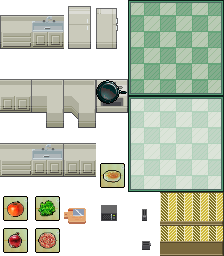
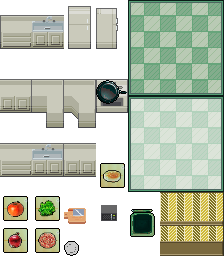
Updated tilemap, various optimisations

Changed region(s): [[0.5625, 0.8125, 0.7188, 1.0], [0.2812, 0.9375, 0.375, 1.0]]

diff --git a/core/src/io/github/eng_25/piazzapanic/screen/ScreenGame.java b/core/src/io/github/eng_25/piazzapanic/screen/ScreenGame.java
@@ -5,22 +5,26 @@ import com.badlogic.gdx.Input;
 import com.badlogic.gdx.InputMultiplexer;
 import com.badlogic.gdx.graphics.GL20;
 import com.badlogic.gdx.graphics.OrthographicCamera;
+import com.badlogic.gdx.graphics.g2d.TextureRegion;
 import com.badlogic.gdx.math.Vector2;
 import com.badlogic.gdx.scenes.scene2d.InputEvent;
 import com.badlogic.gdx.scenes.scene2d.Stage;
-import com.badlogic.gdx.scenes.scene2d.ui.Table;
-import com.badlogic.gdx.scenes.scene2d.ui.TextButton;
-import com.badlogic.gdx.scenes.scene2d.ui.Window;
+import com.badlogic.gdx.scenes.scene2d.ui.*;
 import com.badlogic.gdx.scenes.scene2d.utils.ClickListener;
+import com.badlogic.gdx.utils.Array;
 import com.badlogic.gdx.utils.viewport.ExtendViewport;
 import com.badlogic.gdx.utils.viewport.ScreenViewport;
 import io.github.eng_25.piazzapanic.PiazzaPanic;
 import io.github.eng_25.piazzapanic.common.PiazzaMap;
 import io.github.eng_25.piazzapanic.common.entity.Cook;
+import io.github.eng_25.piazzapanic.common.ingredient.BaseIngredient;
+import io.github.eng_25.piazzapanic.common.ingredient.Ingredient;
 import io.github.eng_25.piazzapanic.util.ResourceManager;
 import io.github.eng_25.piazzapanic.util.UIHelper;
 import io.github.eng_25.piazzapanic.window.WindowGuide;
 import io.github.eng_25.piazzapanic.window.WindowPause;
+
+import java.util.ArrayList;
 
 /**
  * The screen for the main game itself
@@ -131,6 +135,41 @@ public class ScreenGame extends ScreenBase {
                 pauseWindow.setVisible(true);
             }
         });
+
+
+        //TODO: remove tests here
+        currentCook.getStack().push(Ingredient.copyOf(Ingredient.INGREDIENT_MAP.get("Lettuce")));
+        currentCook.getStack().push(Ingredient.copyOf(Ingredient.INGREDIENT_MAP.get("Lettuce")));
+
+
+        // stack UI
+        //TODO: change first 3 to emptyTex, last to stack tex
+        UITable.add(new Image(resourceManager.burger)).left().row();
+        UITable.add(new Image(resourceManager.salad)).left().row();
+        UITable.add(new Image(resourceManager.buttonDown)).left().row();
+        UITable.add(new Image(resourceManager.closeButton)).left().row();
+        updateStackTextures();
+        adjustStackUIPosition();
+    }
+
+    //TODO: check this works properly with stack order
+    private void updateStackTextures() {
+        // set up list to determine which parts of stack UI are filled and which should be empty
+        ArrayList<BaseIngredient> stackDisplayList = new ArrayList<>();
+        for (Object i : currentCook.getStack().toArray()) {
+            stackDisplayList.add((BaseIngredient) i);
+        }
+        while (stackDisplayList.size() < 3) { stackDisplayList.add(null); }
+
+        // if part of the stack was empty, use the empty texture - otherwise scale
+        //TODO: change buttonUp here to empty tex
+        Array<Cell> cells = UITable.getCells();
+        for (int i=1; i<4; i++) { // 3 stack images
+            BaseIngredient ing = stackDisplayList.get(i-1);
+            TextureRegion tex = ing == null ? resourceManager.buttonUp : ing.getTexture();
+            Image texScaled = new Image(tex);
+            cells.get(i).setActor(texScaled);
+        }
     }
 
     /**
@@ -147,6 +186,16 @@ public class ScreenGame extends ScreenBase {
     private void switchCooks() {
         currentCook.stopMoving();
         currentCook = currentCook == cook1 ? cook2 : cook1;
+    }
+
+    private void adjustStackUIPosition() {
+        float padLeft = UIViewport.getScreenWidth()*0.1f;
+        float initialPadTop = UIViewport.getScreenHeight()*0.4f;
+        float padTop = UIViewport.getScreenHeight()*0.1f;
+        UITable.getCells().get(1).padLeft(padLeft).padTop(initialPadTop);
+        for (int i=2; i<5; i++) {
+            UITable.getCells().get(i).padLeft(padLeft).padTop(padTop);
+        }
     }
 
 
@@ -202,6 +251,9 @@ public class ScreenGame extends ScreenBase {
 
         // pause button positioning
         UITable.getCells().get(0).padLeft(UIViewport.getWorldWidth() - resourceManager.buttonUp.getRegionWidth());
+
+        // stack UI positioning
+        adjustStackUIPosition();
 
         resizeWindow(pauseWindow);
         resizeWindow(guideWindow);

diff --git a/core/src/io/github/eng_25/piazzapanic/common/ingredient/Ingredient.java b/core/src/io/github/eng_25/piazzapanic/common/ingredient/Ingredient.java
@@ -1,6 +1,7 @@
 package io.github.eng_25.piazzapanic.common.ingredient;
 
 import com.badlogic.gdx.graphics.Texture;
+import com.badlogic.gdx.graphics.g2d.TextureRegion;
 import io.github.eng_25.piazzapanic.util.ResourceManager;
 
 import java.util.Map;
@@ -10,11 +11,11 @@ public class Ingredient extends BaseIngredient implements Comparable<Ingredient>
     // map of ingredients to be referred to
     public static final ResourceManager rm = new ResourceManager();
     public static final Map<String, Ingredient> INGREDIENT_MAP = Map.of(
-            "Onion", new Ingredient("onion", rm.onionUnprepared.getTexture(), rm.onionPrepared.getTexture()),
-            "Lettuce", new Ingredient("lettuce", rm.lettuceUnprepared.getTexture(), rm.lettucePrepared.getTexture()),
-            "Tomato", new Ingredient("tomato", rm.tomatoUnprepared.getTexture(), rm.tomatoPrepared.getTexture()),
-            "Meat", new Ingredient("meat", rm.meatUnprepared.getTexture(), rm.meatPrepared.getTexture()),
-            "Bun", new Ingredient("bun", rm.bun.getTexture(), rm.bun.getTexture()).prepare() // always prepared
+            "Onion", new Ingredient("onion", rm.onionUnprepared, rm.onionPrepared),
+            "Lettuce", new Ingredient("lettuce", rm.lettuceUnprepared, rm.lettucePrepared),
+            "Tomato", new Ingredient("tomato", rm.tomatoUnprepared, rm.tomatoPrepared),
+            "Meat", new Ingredient("meat", rm.meatUnprepared, rm.meatPrepared),
+            "Bun", new Ingredient("bun", rm.bun, rm.bun).prepare() // always prepared
     );
 
     public static Ingredient copyOf(Ingredient ing) {
@@ -22,12 +23,12 @@ public class Ingredient extends BaseIngredient implements Comparable<Ingredient>
     }
 
     private boolean isPrepared;
-    private final Texture[] textures; // {unprepared, prepared}
+    private final TextureRegion[] textures; // {unprepared, prepared}
 
-    public Ingredient(String name, Texture unprepared, Texture prepared) {
+    public Ingredient(String name, TextureRegion unprepared, TextureRegion prepared) {
         super(name);
         isPrepared = false;
-        textures = new Texture[]{unprepared, prepared};
+        textures = new TextureRegion[]{unprepared, prepared};
     }
 
     /**
@@ -52,7 +53,7 @@ public class Ingredient extends BaseIngredient implements Comparable<Ingredient>
      * @return prepared texture if isPrepared true, unprepared texture otherwise
      */
     @Override
-    Texture getTexture() {
+    public TextureRegion getTexture() {
         return isPrepared ? textures[1] : textures[0];
     }
 

diff --git a/core/src/io/github/eng_25/piazzapanic/common/ingredient/Recipes.java b/core/src/io/github/eng_25/piazzapanic/common/ingredient/Recipes.java
@@ -9,15 +9,15 @@ import java.util.List;
 public enum Recipes {
 
     SALAD(List.of(
-            Ingredient.INGREDIENT_MAP.get("Onion").prepare(),
-            Ingredient.INGREDIENT_MAP.get("Lettuce").prepare(),
-            Ingredient.INGREDIENT_MAP.get("Tomato").prepare()
-    ), Dish.DISH_MAP.get("Salad")),
+            Ingredient.copyOf(Ingredient.INGREDIENT_MAP.get("Onion")).prepare(),
+            Ingredient.copyOf(Ingredient.INGREDIENT_MAP.get("Lettuce")).prepare(),
+            Ingredient.copyOf(Ingredient.INGREDIENT_MAP.get("Tomato")).prepare()
+    ), Dish.copyOf(Dish.DISH_MAP.get("Salad"))),
     BURGER(List.of(
-            Ingredient.INGREDIENT_MAP.get("Bun"),
-            Ingredient.INGREDIENT_MAP.get("Meat").prepare(),
-            Ingredient.INGREDIENT_MAP.get("Lettuce").prepare()
-    ), Dish.DISH_MAP.get("Burger"));
+            Ingredient.copyOf(Ingredient.INGREDIENT_MAP.get("Bun")),
+            Ingredient.copyOf(Ingredient.INGREDIENT_MAP.get("Meat")).prepare(),
+            Ingredient.copyOf(Ingredient.INGREDIENT_MAP.get("Lettuce")).prepare()
+    ), Dish.copyOf(Dish.DISH_MAP.get("Burger")));
 
     private final List<Ingredient> ingredientList;
     private final Dish dishOut;
@@ -44,6 +44,7 @@ public enum Recipes {
     public Dish checkValidRecipe(List<Ingredient> listOfIngredients) {
         Collections.sort(listOfIngredients);
 
+        //TODO: sort r.get... here?
         for (Recipes r : Recipes.values()) {
             if (listOfIngredients.equals(r.getIngredientList())) {
                 return r.getDish();

diff --git a/core/src/io/github/eng_25/piazzapanic/common/ingredient/Dish.java b/core/src/io/github/eng_25/piazzapanic/common/ingredient/Dish.java
@@ -1,6 +1,7 @@
 package io.github.eng_25.piazzapanic.common.ingredient;
 
 import com.badlogic.gdx.graphics.Texture;
+import com.badlogic.gdx.graphics.g2d.TextureRegion;
 import io.github.eng_25.piazzapanic.util.ResourceManager;
 
 import java.util.Map;
@@ -10,8 +11,8 @@ public class Dish extends BaseIngredient {
     // map of dishes to be referred to
     private static final ResourceManager rm = new ResourceManager();
     public static final Map<String, Dish> DISH_MAP = Map.of(
-            "Salad", new Dish("salad", rm.salad.getTexture()),
-            "Burger", new Dish("burger", rm.burger.getTexture())
+            "Salad", new Dish("salad", rm.salad),
+            "Burger", new Dish("burger", rm.burger)
     );
 
     public static Dish copyOf(Dish dish) {
@@ -19,15 +20,15 @@ public class Dish extends BaseIngredient {
     }
 
     // Dish only has a single texture
-    private Texture texture;
+    private TextureRegion texture;
 
-    public Dish(String name, Texture tex) {
+    public Dish(String name, TextureRegion tex) {
         super(name);
         texture = tex;
     }
 
     @Override
-    Texture getTexture() {
+    public TextureRegion getTexture() {
         return texture;
     }
 }

diff --git a/core/src/io/github/eng_25/piazzapanic/util/SizedStack.java b/core/src/io/github/eng_25/piazzapanic/util/SizedStack.java
@@ -9,7 +9,7 @@ import java.util.Stack;
  */
 public class SizedStack<T> extends Stack<T> {
 
-    private int maxSize;
+    private final int maxSize;
 
     /**
      * @param size max size of stack
@@ -35,5 +35,11 @@ public class SizedStack<T> extends Stack<T> {
 
     public boolean isFull() {
         return this.size() == maxSize;
+    }
+
+    @Override
+    public synchronized T peek() {
+        if (isEmpty()) { return null; }
+        return super.peek();
     }
 }

diff --git a/core/src/io/github/eng_25/piazzapanic/common/ingredient/BaseIngredient.java b/core/src/io/github/eng_25/piazzapanic/common/ingredient/BaseIngredient.java
@@ -1,6 +1,6 @@
 package io.github.eng_25.piazzapanic.common.ingredient;
 
-import com.badlogic.gdx.graphics.Texture;
+import com.badlogic.gdx.graphics.g2d.TextureRegion;
 
 /**
  * Base class for Ingredients and Dishes, both have a name and must implement a getTexture() method
@@ -17,5 +17,5 @@ public abstract class BaseIngredient {
         return name;
     }
 
-    abstract Texture getTexture();
+    public abstract TextureRegion getTexture();
 }

diff --git a/core/src/io/github/eng_25/piazzapanic/common/entity/Cook.java b/core/src/io/github/eng_25/piazzapanic/common/entity/Cook.java
@@ -18,7 +18,7 @@ public class Cook extends Actor {
     TextureRegion texture;
 
     public Cook(ResourceManager rm, Vector2 originalPos) {
-        stack = new SizedStack<BaseIngredient>(3);
+        stack = new SizedStack<>(3);
         this.position = originalPos;
         this.movement = new Vector2(0, 0);
         texture = rm.cook;
